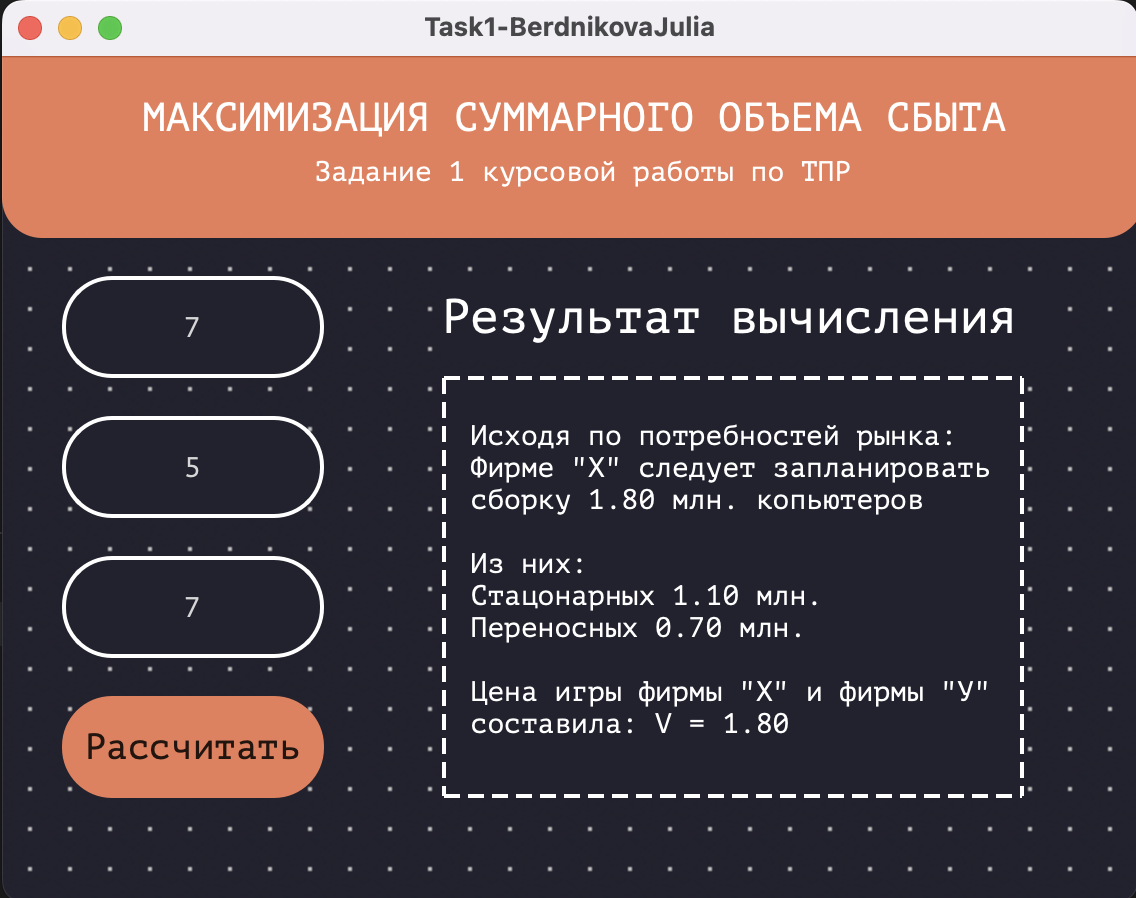
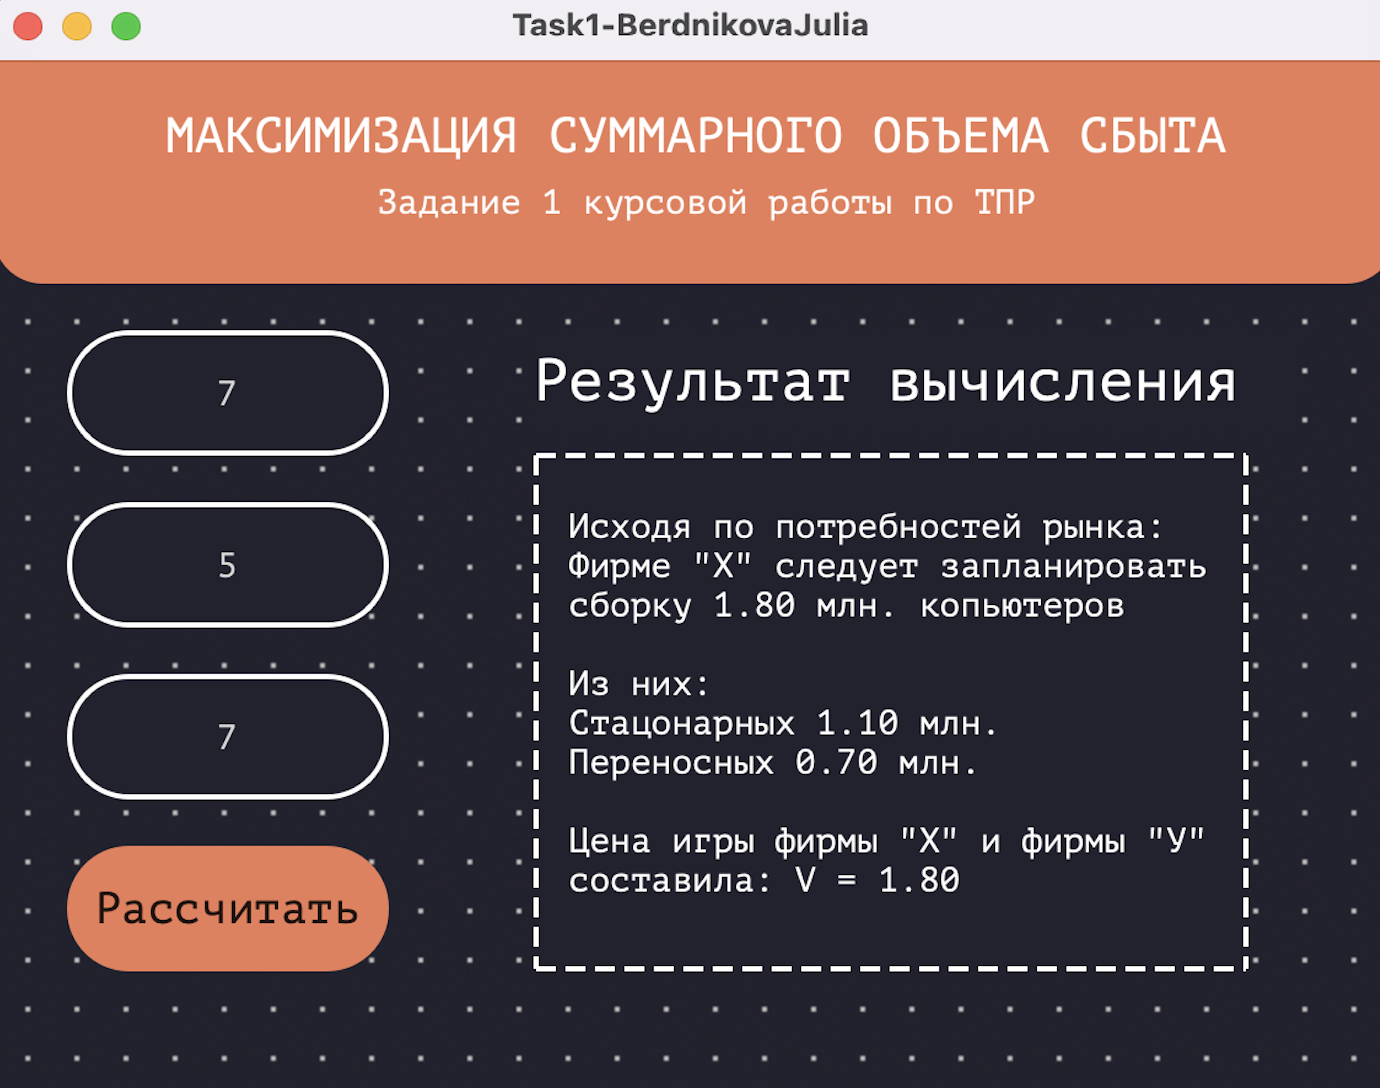
new screenshots

diff --git a/gui.py b/gui.py
@@ -22,88 +22,87 @@ class Ui_Form(object):
     def setupUi(self, Form):
         if not Form.objectName():
             Form.setObjectName(u"Form")
-        Form.resize(554, 648)
-        Form.setStyleSheet(u"background-color: rgb(246, 255, 251)")
+        Form.resize(364, 637)
+        Form.setStyleSheet(u"background-color: rgb(255, 255, 255)")
         self.pushButton_calculate = QPushButton(Form)
         self.pushButton_calculate.setObjectName(u"pushButton_calculate")
-        self.pushButton_calculate.setGeometry(QRect(40, 330, 471, 51))
+        self.pushButton_calculate.setGeometry(QRect(30, 290, 301, 51))
         font = QFont()
         font.setFamilies([u"PT Sans Caption"])
         font.setPointSize(18)
         self.pushButton_calculate.setFont(font)
         self.pushButton_calculate.setCursor(QCursor(Qt.PointingHandCursor))
         self.pushButton_calculate.setMouseTracking(False)
-        self.pushButton_calculate.setStyleSheet(u"background-color: rgb(26, 104, 28);\n"
+        self.pushButton_calculate.setStyleSheet(u"color: rgb(65, 50, 30);\n"
 "border-radius: 12;\n"
-"color: rgb(215, 255, 205);\n"
+"background-color: rgb(245, 186, 113);\n"
+"border: none;\n"
 "")
         self.lineEdit_k1 = QLineEdit(Form)
         self.lineEdit_k1.setObjectName(u"lineEdit_k1")
-        self.lineEdit_k1.setGeometry(QRect(40, 110, 471, 51))
+        self.lineEdit_k1.setGeometry(QRect(260, 70, 51, 51))
         font1 = QFont()
         font1.setFamilies([u"PT Sans Caption"])
         font1.setPointSize(14)
         self.lineEdit_k1.setFont(font1)
-        self.lineEdit_k1.setStyleSheet(u"color: rgb(24, 100, 18);\n"
-"border: 2px solid rgb(26, 104, 28);\n"
+        self.lineEdit_k1.setStyleSheet(u"color: rgb(65, 50, 30);\n"
+"border: 2px solid rgb(65, 50, 30);\n"
 "border-radius: 25;")
         self.lineEdit_k1.setAlignment(Qt.AlignCenter)
         self.lineEdit_k2 = QLineEdit(Form)
         self.lineEdit_k2.setObjectName(u"lineEdit_k2")
-        self.lineEdit_k2.setGeometry(QRect(40, 180, 471, 51))
+        self.lineEdit_k2.setGeometry(QRect(260, 140, 51, 51))
         self.lineEdit_k2.setFont(font1)
-        self.lineEdit_k2.setStyleSheet(u"color: rgb(24, 100, 18);\n"
-"border: 2px solid rgb(26, 104, 28);\n"
+        self.lineEdit_k2.setStyleSheet(u"color: rgb(65, 50, 30);\n"
+"border: 2px solid rgb(65, 50, 30);\n"
 "border-radius: 25;")
         self.lineEdit_k2.setAlignment(Qt.AlignCenter)
         self.lineEdit_k3 = QLineEdit(Form)
         self.lineEdit_k3.setObjectName(u"lineEdit_k3")
-        self.lineEdit_k3.setGeometry(QRect(40, 250, 471, 51))
+        self.lineEdit_k3.setGeometry(QRect(260, 210, 51, 51))
         font2 = QFont()
         font2.setFamilies([u"Fira Code"])
         font2.setPointSize(14)
         self.lineEdit_k3.setFont(font2)
-        self.lineEdit_k3.setStyleSheet(u"color: rgb(24, 100, 18);\n"
-"border: 2px solid rgb(26, 104, 28);\n"
+        self.lineEdit_k3.setStyleSheet(u"color: rgb(65, 50, 30);\n"
+"border: 2px solid rgb(65, 50, 30);\n"
 "border-radius: 25;")
         self.lineEdit_k3.setAlignment(Qt.AlignCenter)
         self.textEdit_result = QTextEdit(Form)
         self.textEdit_result.setObjectName(u"textEdit_result")
-        self.textEdit_result.setGeometry(QRect(40, 400, 471, 191))
+        self.textEdit_result.setGeometry(QRect(30, 360, 301, 191))
         self.textEdit_result.setFont(font1)
-        self.textEdit_result.setStyleSheet(u"color: rgb(24, 100, 18);\n"
-"border: 3px solid rgb(26, 104, 28);\n"
+        self.textEdit_result.setStyleSheet(u"color: rgb(65, 50, 30);\n"
+"border: 3px solid rgb(65, 50, 30);\n"
 "border-radius: 12;")
         self.label_3 = QLabel(Form)
         self.label_3.setObjectName(u"label_3")
-        self.label_3.setGeometry(QRect(40, 600, 471, 31))
+        self.label_3.setGeometry(QRect(30, 560, 301, 31))
         self.label_3.setFont(font)
-        self.label_3.setStyleSheet(u"color: rgb(24, 100, 18);")
+        self.label_3.setStyleSheet(u"color: rgb(65, 50, 30);")
         self.label_3.setAlignment(Qt.AlignCenter)
         self.label_2 = QLabel(Form)
         self.label_2.setObjectName(u"label_2")
-        self.label_2.setGeometry(QRect(50, 60, 471, 21))
+        self.label_2.setGeometry(QRect(40, 70, 171, 211))
         font3 = QFont()
         font3.setFamilies([u"PT Sans Caption"])
         font3.setPointSize(17)
         self.label_2.setFont(font3)
-        self.label_2.setStyleSheet(u"color: rgb(24, 100, 18);")
+        self.label_2.setStyleSheet(u"color: rgb(65, 50, 30);")
         self.frame = QFrame(Form)
         self.frame.setObjectName(u"frame")
-        self.frame.setGeometry(QRect(0, 0, 561, 41))
-        self.frame.setStyleSheet(u"background-color: rgb(26, 104, 28);")
+        self.frame.setGeometry(QRect(-20, 0, 391, 41))
+        self.frame.setStyleSheet(u"background-color: rgb(245, 186, 113);\n"
+"border: none;")
         self.frame.setFrameShape(QFrame.StyledPanel)
         self.frame.setFrameShadow(QFrame.Raised)
-        self.label = QLabel(self.frame)
-        self.label.setObjectName(u"label")
-        self.label.setGeometry(QRect(130, 10, 331, 16))
-        font4 = QFont()
-        font4.setFamilies([u"PT Sans Caption"])
-        font4.setPointSize(14)
-        font4.setBold(False)
-        self.label.setFont(font4)
-        self.label.setStyleSheet(u"color: rgb(215, 255, 205);")
-        self.label.setAlignment(Qt.AlignCenter)
+        self.frame_2 = QFrame(Form)
+        self.frame_2.setObjectName(u"frame_2")
+        self.frame_2.setGeometry(QRect(-10, 600, 391, 41))
+        self.frame_2.setStyleSheet(u"background-color: rgb(245, 186, 113);\n"
+"border: none;")
+        self.frame_2.setFrameShape(QFrame.StyledPanel)
+        self.frame_2.setFrameShadow(QFrame.Raised)
         self.frame.raise_()
         self.pushButton_calculate.raise_()
         self.lineEdit_k1.raise_()
@@ -112,6 +111,7 @@ class Ui_Form(object):
         self.textEdit_result.raise_()
         self.label_3.raise_()
         self.label_2.raise_()
+        self.frame_2.raise_()
 
         self.retranslateUi(Form)
 
@@ -135,14 +135,10 @@ class Ui_Form(object):
 #endif // QT_CONFIG(whatsthis)
         self.lineEdit_k1.setInputMask("")
         self.lineEdit_k1.setText("")
-        self.lineEdit_k1.setPlaceholderText(QCoreApplication.translate("Form", u"\u0437\u043d\u0430\u0447\u0435\u043d\u0438\u0435 \u041a1", None))
-        self.lineEdit_k2.setPlaceholderText(QCoreApplication.translate("Form", u"\u0437\u043d\u0430\u0447\u0435\u043d\u0438\u0435 \u041a2", None))
-        self.lineEdit_k3.setPlaceholderText(QCoreApplication.translate("Form", u"\u0437\u043d\u0430\u0447\u0435\u043d\u0438\u0435 \u041a3", None))
+        self.lineEdit_k1.setPlaceholderText(QCoreApplication.translate("Form", u"\u041a1", None))
+        self.lineEdit_k2.setPlaceholderText(QCoreApplication.translate("Form", u"\u041a2", None))
+        self.lineEdit_k3.setPlaceholderText(QCoreApplication.translate("Form", u"\u041a3", None))
         self.label_3.setText(QCoreApplication.translate("Form", u"\u0420\u0415\u0417\u0423\u041b\u042c\u0422\u0410\u0422 \u0412\u042b\u0427\u0418\u0421\u041b\u0415\u041d\u0418\u042f", None))
-        self.label_2.setText(QCoreApplication.translate("Form", u"<html><head/><body><p>\u0420\u0410\u0421\u0427\u0415\u0422 \u041e\u041f\u0422\u0418\u041c\u0410\u041b\u042c\u041d\u041e\u0413\u041e \u041a\u041e\u041b\u0418\u0427\u0415\u0421\u0422\u0412\u0410 \u041a\u041e\u041c\u041f\u042c\u042e\u0422\u0415\u0420\u041e\u0412</p></body></html>", None))
-#if QT_CONFIG(statustip)
-        self.label.setStatusTip("")
-#endif // QT_CONFIG(statustip)
-        self.label.setText(QCoreApplication.translate("Form", u"<html><head/><body><p>\u0418\u043c\u044f\u0421\u0442\u0443\u0434\u0435\u043d\u0442\u0430. \u0417\u0430\u0434\u0430\u0447\u0430 \u21161</p></body></html>", None))
+        self.label_2.setText(QCoreApplication.translate("Form", u"<html><head/><body><p>\u0420\u0410\u0421\u0427\u0415\u0422 </p><p>\u041e\u041f\u0422\u0418\u041c\u0410\u041b\u042c\u041d\u041e\u0413\u041e </p><p>\u041a\u041e\u041b\u0418\u0427\u0415\u0421\u0422\u0412\u0410 \u041f\u041a</p><p><br/></p><p>\u0418\u043c\u044f\u0421\u0442\u0443\u0434\u0435\u043d\u0442\u0430</p></body></html>", None))
     # retranslateUi
 
